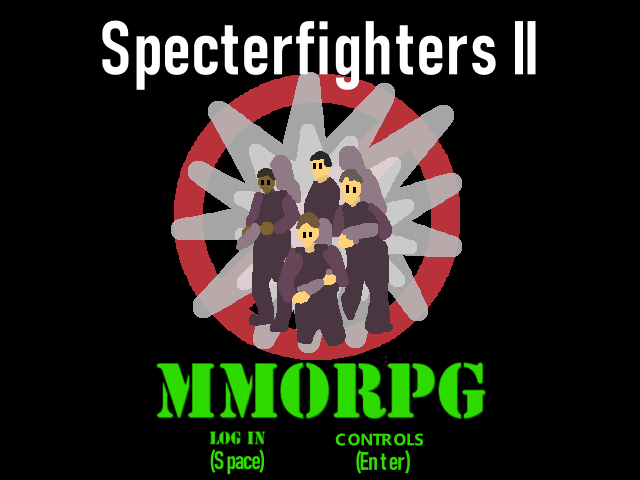
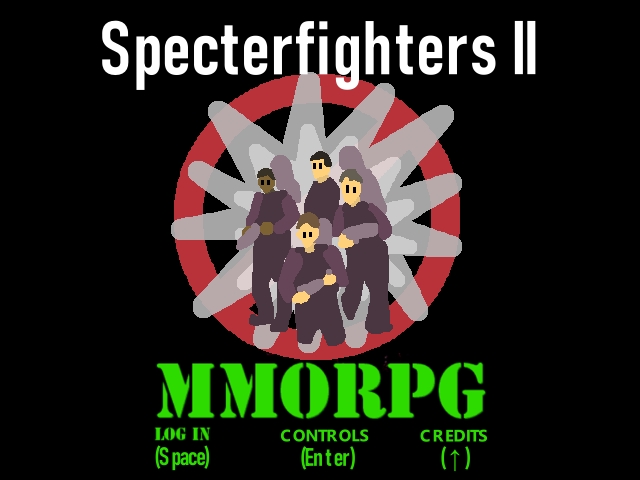
Credits

diff --git a/Final Project/src/scenes/Menu.js b/Final Project/src/scenes/Menu.js
@@ -28,6 +28,7 @@ class Menu extends Phaser.Scene {
         this.load.image('ghost', './assets/images/Ghost.png');
         this.load.image('hud', './assets/images/HUD.png');
         this.load.image('controls', './assets/images/Controls.png');
+        this.load.image('credits', './assets/images/Credits.png');
         this.load.spritesheet('shopghost', './assets/images/ShopGhost.png', {
             frameWidth: 151,
             frameHeight: 300,
@@ -60,7 +61,7 @@ class Menu extends Phaser.Scene {
             frameWidth: 16,
             frameHeight: 16
           });
-465
+
           this.load.image('tilesetImage', './assets/tilemap/Tileset2.png');
           this.load.tilemapTiledJSON('tilemapJSON', "./assets/tilemap/tileset6.json");
 
@@ -193,6 +194,8 @@ class Menu extends Phaser.Scene {
 
         this.controls = this.physics.add.sprite(config.width/2, config.height/2, 'controls');
         this.controls.scaleX = 0;
+        this.credits = this.physics.add.sprite(config.width/2, config.height/2, 'credits');
+        this.credits.scaleX = 0;
         this.select = this.sound.add('select', {volume: 0.2});
         
     }
@@ -207,13 +210,23 @@ class Menu extends Phaser.Scene {
       }
 
       //controls
-      else if(Phaser.Input.Keyboard.JustDown(keyENTER)){
+      else if(Phaser.Input.Keyboard.JustDown(keyENTER) && this.credits.scaleX == 0){
         this.select.play();
         if(this.controls.scaleX == 0){
           this.controls.scaleX = 1;
         }
         else{
           this.controls.scaleX = 0;
+        }
+      }
+
+      else if(Phaser.Input.Keyboard.JustDown(keyUP) && this.controls.scaleX == 0){
+        this.select.play();
+        if(this.credits.scaleX == 0){
+          this.credits.scaleX = 1;
+        }
+        else{
+          this.credits.scaleX = 0;
         }
       }
     }

diff --git a/Final Project/src/scenes/Play.js b/Final Project/src/scenes/Play.js
@@ -36,7 +36,7 @@ class Play extends Phaser.Scene {
             xtxt = xtxt + "X";
         }
         this.moneytxt = this.add.text(config.width - 110, config.height - 35, money, { fontSize: 24, color: "black", backgroundColor: "#ADD8E6"});
-        this.questtxt = this.add.text(config.width - 440, config.height - 35, "Fend off the Ghost invasion!", { fontSize: 12, color: "black"});
+        this.questtxt = this.add.text(config.width - 428, config.height - 35, "Fend off the Ghost invasion!", { fontSize: 12, color: "black"});
         this.healthtxt = this.add.text(40, config.height - 35,  xtxt, { fontSize: 24, color: "black", backgroundColor: "#ADD8E6"});
         this.cameras.main.setBounds(0, 0, map.widthInPixels);
 
